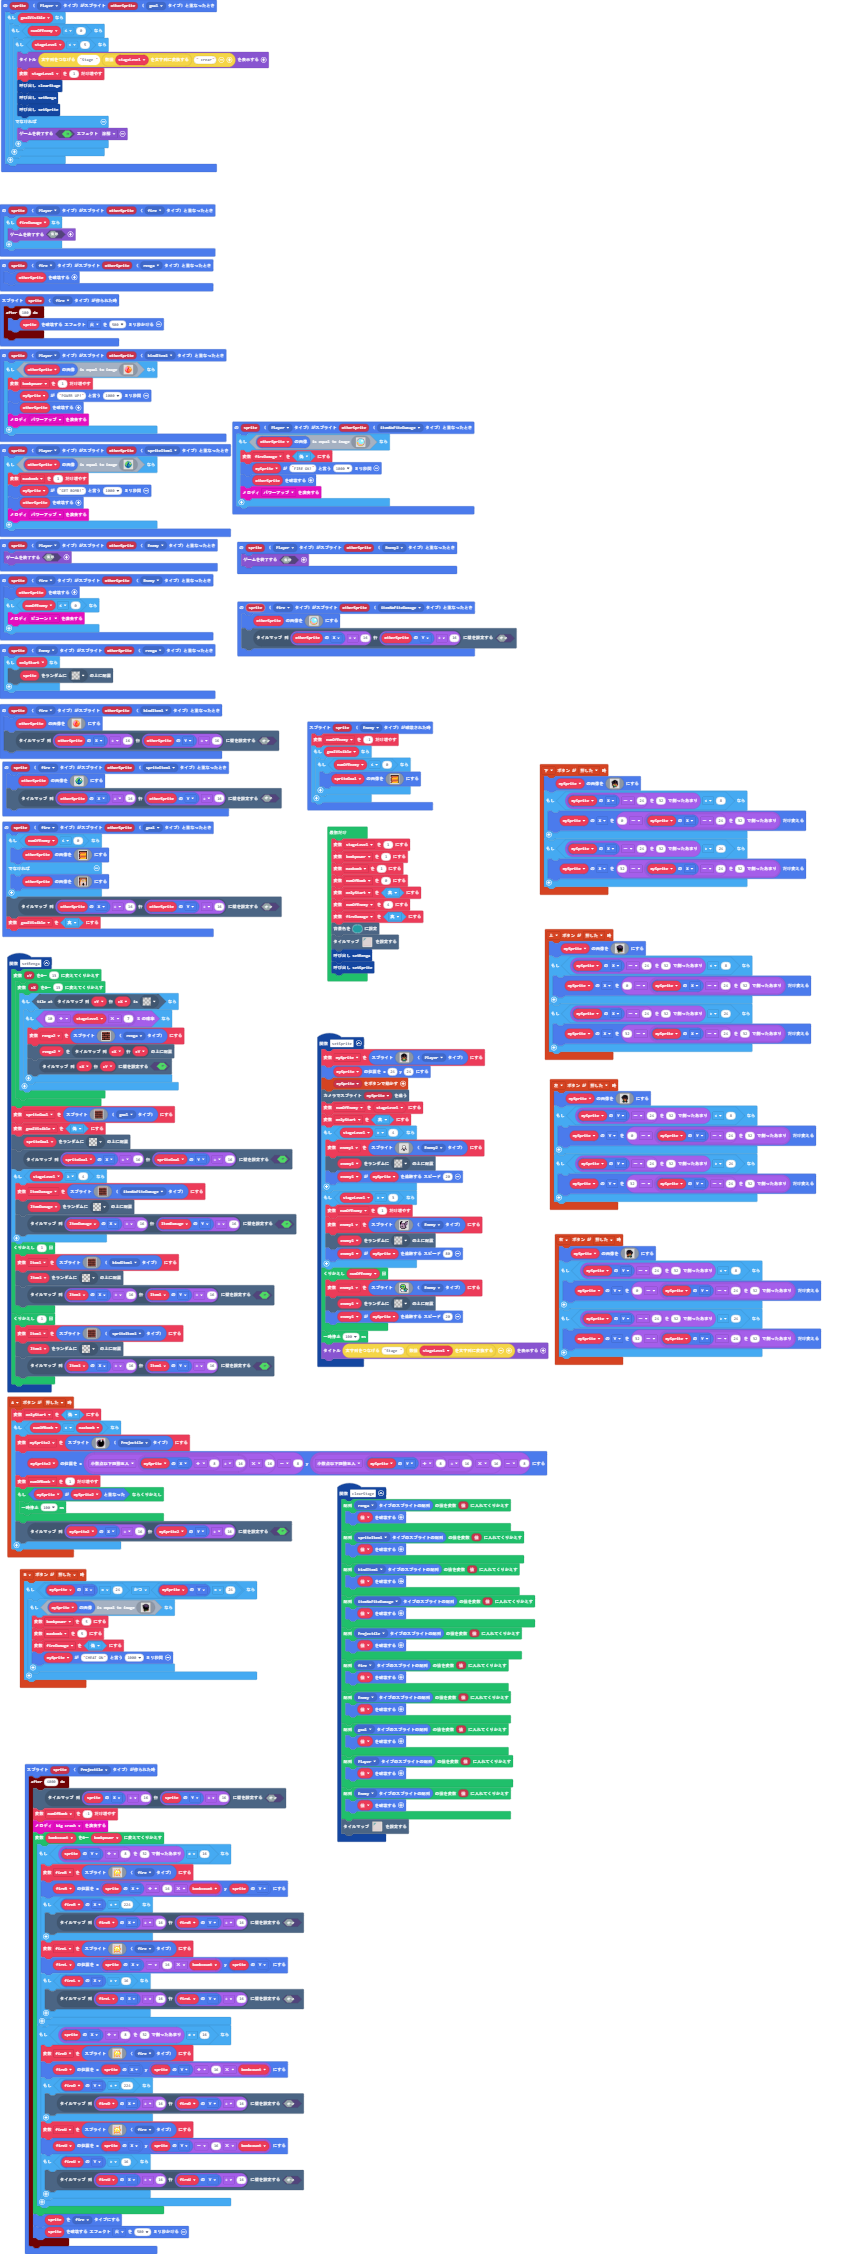
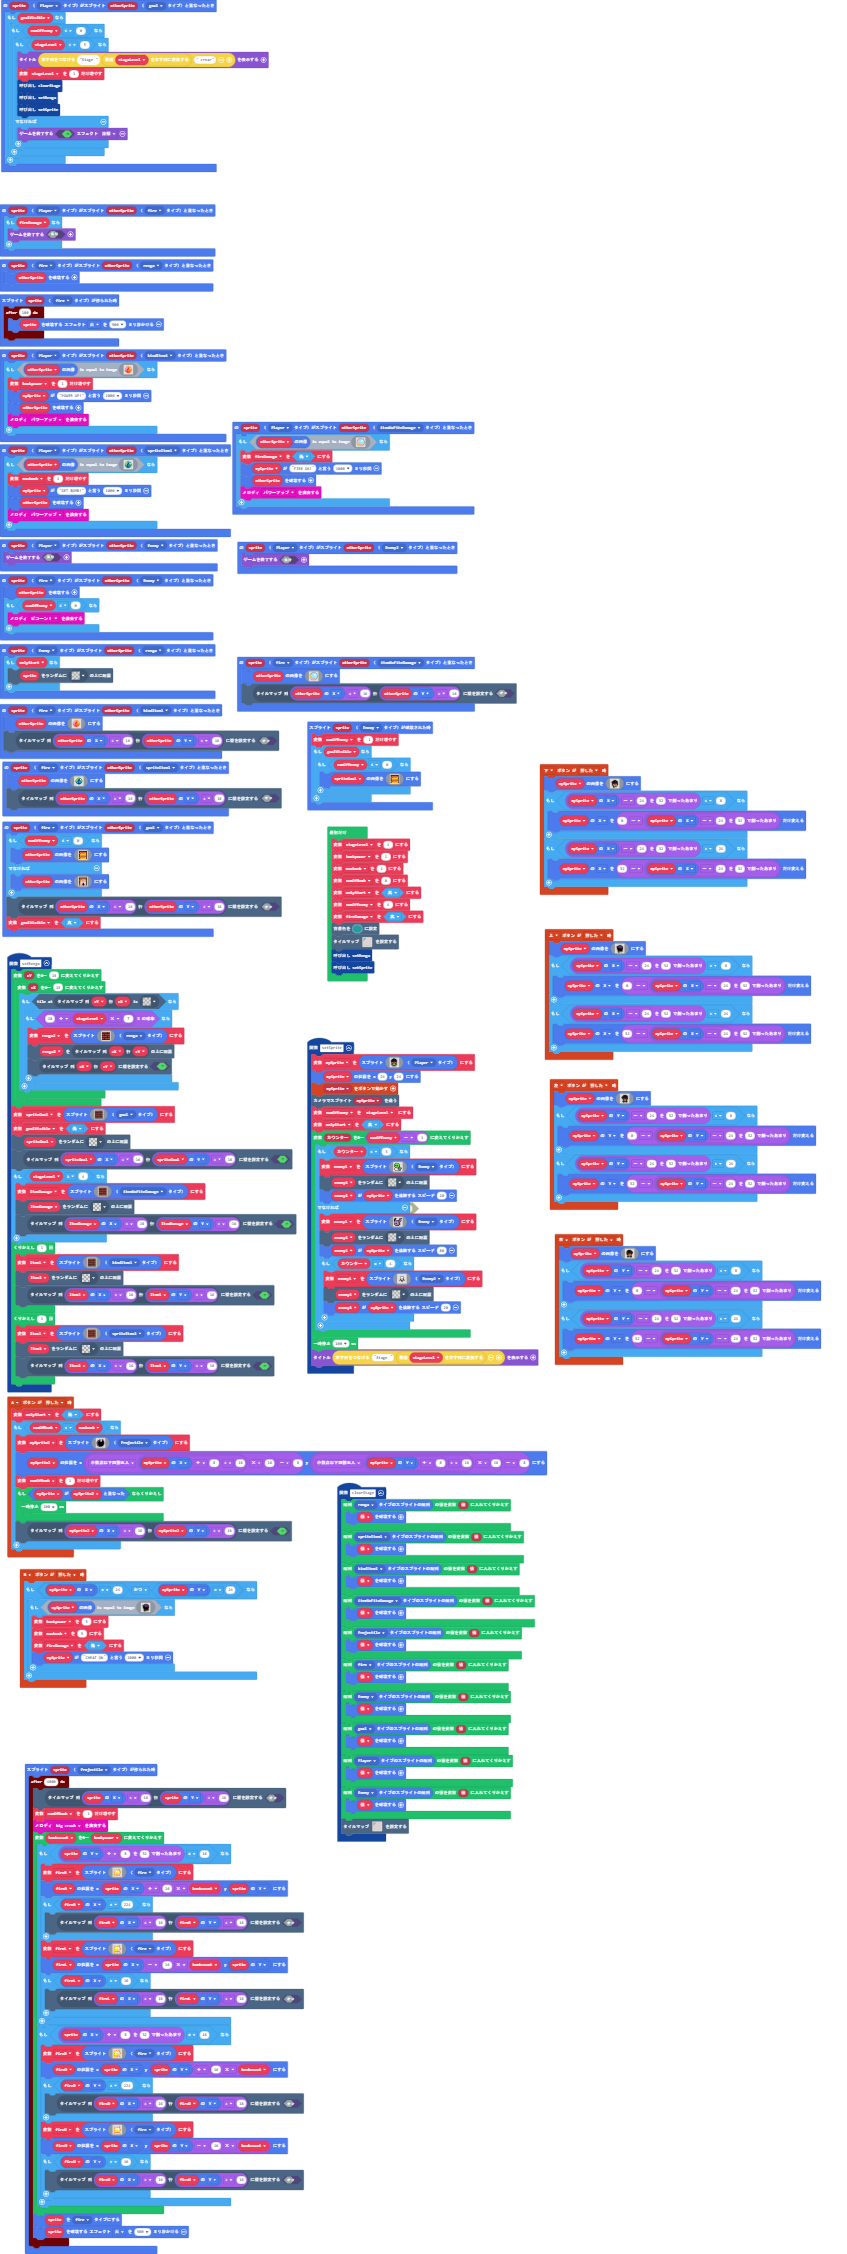
更新 main.blocks, main.ts

diff --git a/main.ts b/main.ts
@@ -115,80 +115,80 @@ function setSprite () {
     scene.cameraFollowSprite(mySprite)
     numOfEnemy = stageLevel
     onlyStart = true
-    if (stageLevel > 4) {
-        enemy1 = sprites.create(img`
-            ........................
-            ........................
-            ........................
-            ........................
-            ..........ffff..........
-            ........ff1111ff........
-            .......fb111111bf.......
-            .......f11111111f.......
-            ......fd11111111df......
-            ......fd11111111df......
-            ......fddd1111dddf......
-            ......fbdbfddfbdbf......
-            ......fcdcf11fcdcf......
-            .......fb111111bf.......
-            ......fffcdb1bdffff.....
-            ....fc111cbfbfc111cf....
-            ....f1b1b1ffff1b1b1f....
-            ....fbfbffffffbfbfbf....
-            .........ffffff.........
-            ...........fff..........
-            ........................
-            ........................
-            ........................
-            ........................
-            `, SpriteKind.Enemy2)
-        tiles.placeOnRandomTile(enemy1, assets.tile`transparency16`)
-        enemy1.follow(mySprite, 20)
-    }
-    if (stageLevel > 3) {
-        numOfEnemy += 1
-        enemy1 = sprites.create(img`
-            . . f f f . . . . . . . . f f f 
-            . f f c c . . . . . . f c b b c 
-            f f c c . . . . . . f c b b c . 
-            f c f c . . . . . . f b c c c . 
-            f f f c c . c c . f c b b c c . 
-            f f c 3 c c 3 c c f b c b b c . 
-            f f b 3 b c 3 b c f b c c b c . 
-            . c b b b b b b c b b c c c . . 
-            . c 1 b b b 1 b b c c c c . . . 
-            c b b b b b b b b b c c . . . . 
-            c b c b b b c b b b b f . . . . 
-            f b 1 f f f 1 b b b b f c . . . 
-            f b b b b b b b b b b f c c . . 
-            . f b b b b b b b b c f . . . . 
-            . . f b b b b b b c f . . . . . 
-            . . . f f f f f f f . . . . . . 
-            `, SpriteKind.Enemy)
-        tiles.placeOnRandomTile(enemy1, assets.tile`transparency16`)
-        enemy1.follow(mySprite, 80)
-    }
-    for (let index = 0; index < numOfEnemy; index++) {
-        enemy1 = sprites.create(img`
-            . . . c c c c c c . . . . . . . 
-            . . c 6 7 7 7 7 6 c . . . . . . 
-            . c 7 7 7 7 7 7 7 7 c . . . . . 
-            c 6 7 7 7 7 7 7 7 7 6 c . . . . 
-            c 7 c 6 6 6 6 c 7 7 7 c . . . . 
-            f 7 6 f 6 6 f 6 7 7 7 f . . . . 
-            f 7 7 7 7 7 7 7 7 7 7 f . . . . 
-            . f 7 7 7 7 6 c 7 7 6 f . . . . 
-            . . f c c c c 7 7 6 f c c c . . 
-            . . c 6 2 7 7 7 f c c 7 7 7 c . 
-            . c 6 7 7 2 7 7 c f 6 7 7 7 7 c 
-            . c 1 1 1 1 7 6 6 c 6 6 6 c c c 
-            . c 1 1 1 1 1 6 6 6 6 6 6 c . . 
-            . c 6 1 1 1 1 1 6 6 6 6 6 c . . 
-            . . c 6 1 1 1 1 1 7 6 6 c c . . 
-            . . . c c c c c c c c c c . . . 
-            `, SpriteKind.Enemy)
-        tiles.placeOnRandomTile(enemy1, assets.tile`transparency16`)
-        enemy1.follow(mySprite, 20)
+    for (let カウンター = 0; カウンター <= numOfEnemy - 1; カウンター++) {
+        if (カウンター < 3) {
+            enemy1 = sprites.create(img`
+                . . . c c c c c c . . . . . . . 
+                . . c 6 7 7 7 7 6 c . . . . . . 
+                . c 7 7 7 7 7 7 7 7 c . . . . . 
+                c 6 7 7 7 7 7 7 7 7 6 c . . . . 
+                c 7 c 6 6 6 6 c 7 7 7 c . . . . 
+                f 7 6 f 6 6 f 6 7 7 7 f . . . . 
+                f 7 7 7 7 7 7 7 7 7 7 f . . . . 
+                . f 7 7 7 7 6 c 7 7 6 f . . . . 
+                . . f c c c c 7 7 6 f c c c . . 
+                . . c 6 2 7 7 7 f c c 7 7 7 c . 
+                . c 6 7 7 2 7 7 c f 6 7 7 7 7 c 
+                . c 1 1 1 1 7 6 6 c 6 6 6 c c c 
+                . c 1 1 1 1 1 6 6 6 6 6 6 c . . 
+                . c 6 1 1 1 1 1 6 6 6 6 6 c . . 
+                . . c 6 1 1 1 1 1 7 6 6 c c . . 
+                . . . c c c c c c c c c c . . . 
+                `, SpriteKind.Enemy)
+            tiles.placeOnRandomTile(enemy1, assets.tile`transparency16`)
+            enemy1.follow(mySprite, 20)
+        } else {
+            enemy1 = sprites.create(img`
+                . . f f f . . . . . . . . f f f 
+                . f f c c . . . . . . f c b b c 
+                f f c c . . . . . . f c b b c . 
+                f c f c . . . . . . f b c c c . 
+                f f f c c . c c . f c b b c c . 
+                f f c 3 c c 3 c c f b c b b c . 
+                f f b 3 b c 3 b c f b c c b c . 
+                . c b b b b b b c b b c c c . . 
+                . c 1 b b b 1 b b c c c c . . . 
+                c b b b b b b b b b c c . . . . 
+                c b c b b b c b b b b f . . . . 
+                f b 1 f f f 1 b b b b f c . . . 
+                f b b b b b b b b b b f c c . . 
+                . f b b b b b b b b c f . . . . 
+                . . f b b b b b b c f . . . . . 
+                . . . f f f f f f f . . . . . . 
+                `, SpriteKind.Enemy)
+            tiles.placeOnRandomTile(enemy1, assets.tile`transparency16`)
+            enemy1.follow(mySprite, 80)
+            if (カウンター == 4) {
+                enemy1 = sprites.create(img`
+                    ........................
+                    ........................
+                    ........................
+                    ........................
+                    ..........ffff..........
+                    ........ff1111ff........
+                    .......fb111111bf.......
+                    .......f11111111f.......
+                    ......fd11111111df......
+                    ......fd11111111df......
+                    ......fddd1111dddf......
+                    ......fbdbfddfbdbf......
+                    ......fcdcf11fcdcf......
+                    .......fb111111bf.......
+                    ......fffcdb1bdffff.....
+                    ....fc111cbfbfc111cf....
+                    ....f1b1b1ffff1b1b1f....
+                    ....fbfbffffffbfbfbf....
+                    .........ffffff.........
+                    ...........fff..........
+                    ........................
+                    ........................
+                    ........................
+                    ........................
+                    `, SpriteKind.Enemy2)
+                tiles.placeOnRandomTile(enemy1, assets.tile`transparency16`)
+                enemy1.follow(mySprite, 20)
+            }
+        }
     }
     pause(100)
     game.splash("Stage " + convertToText(stageLevel))
